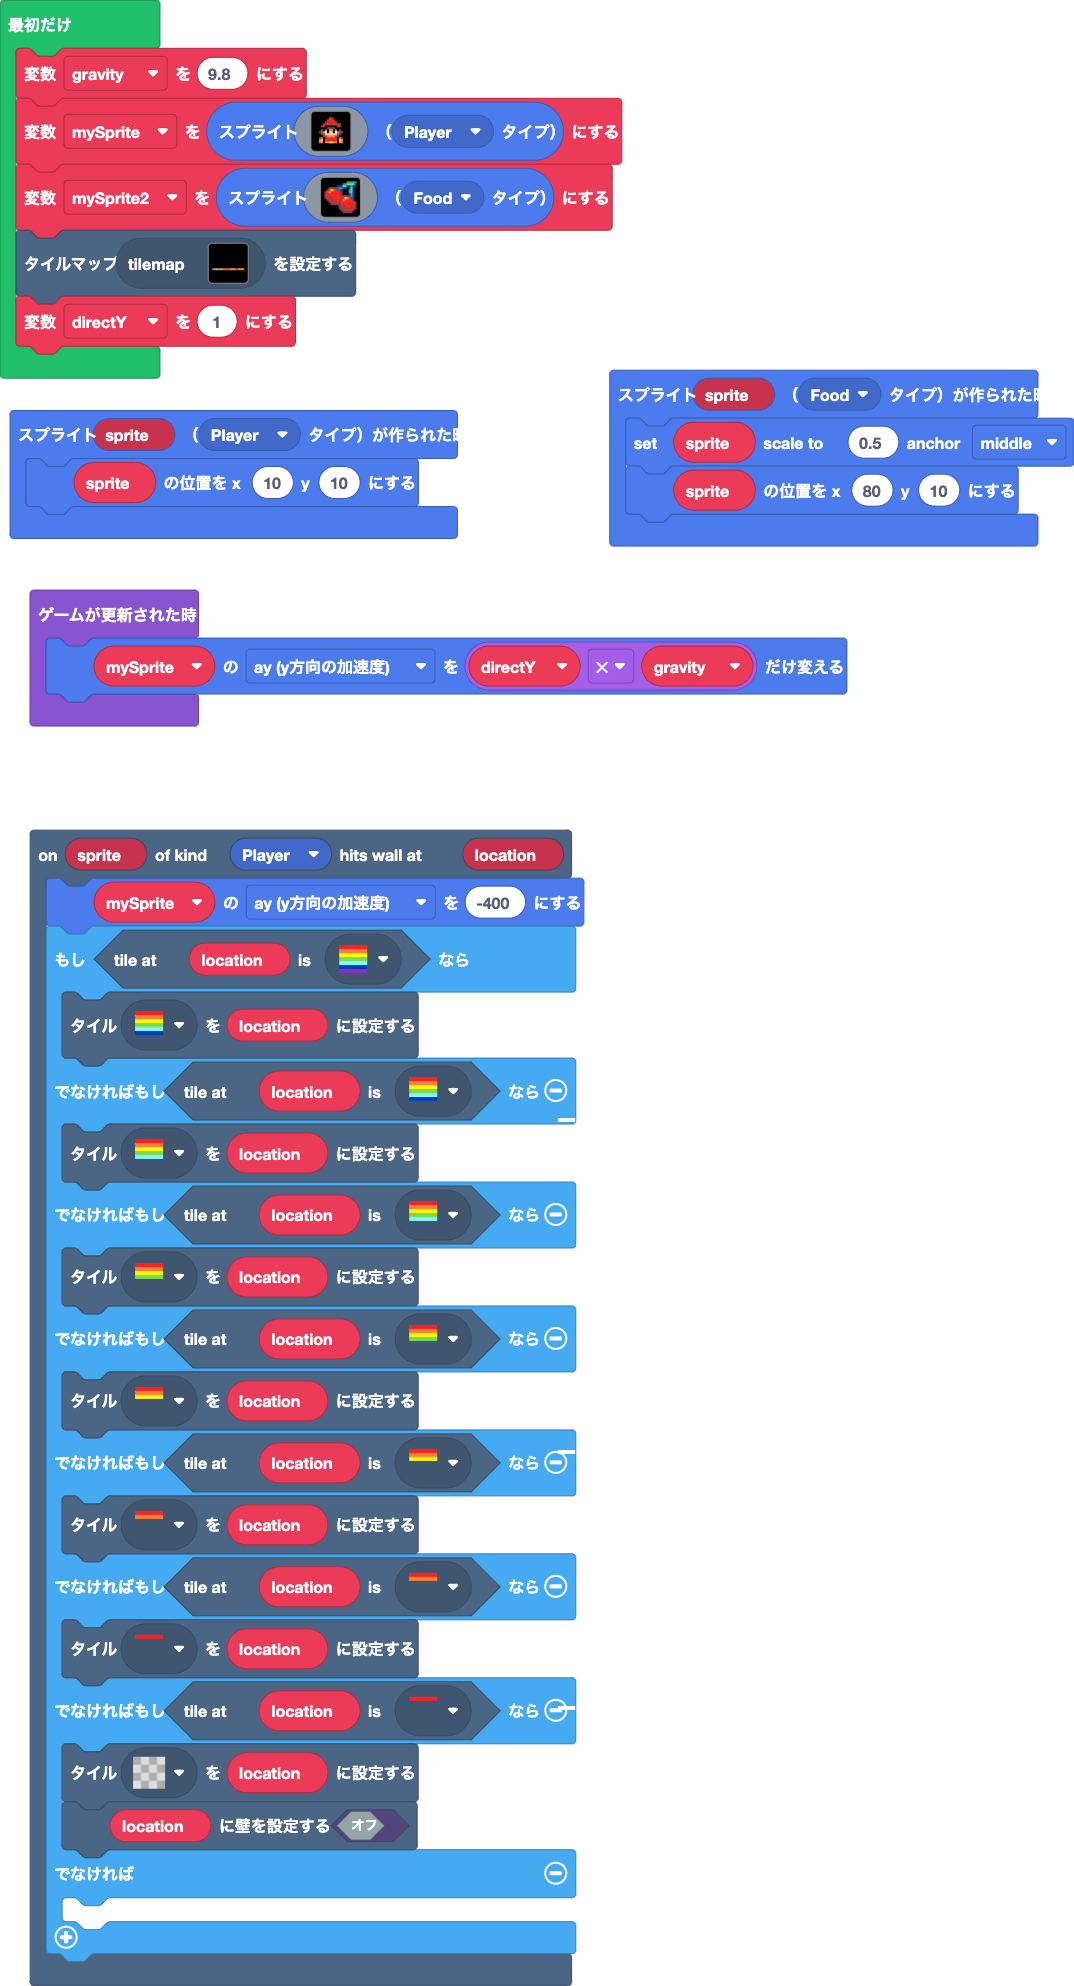
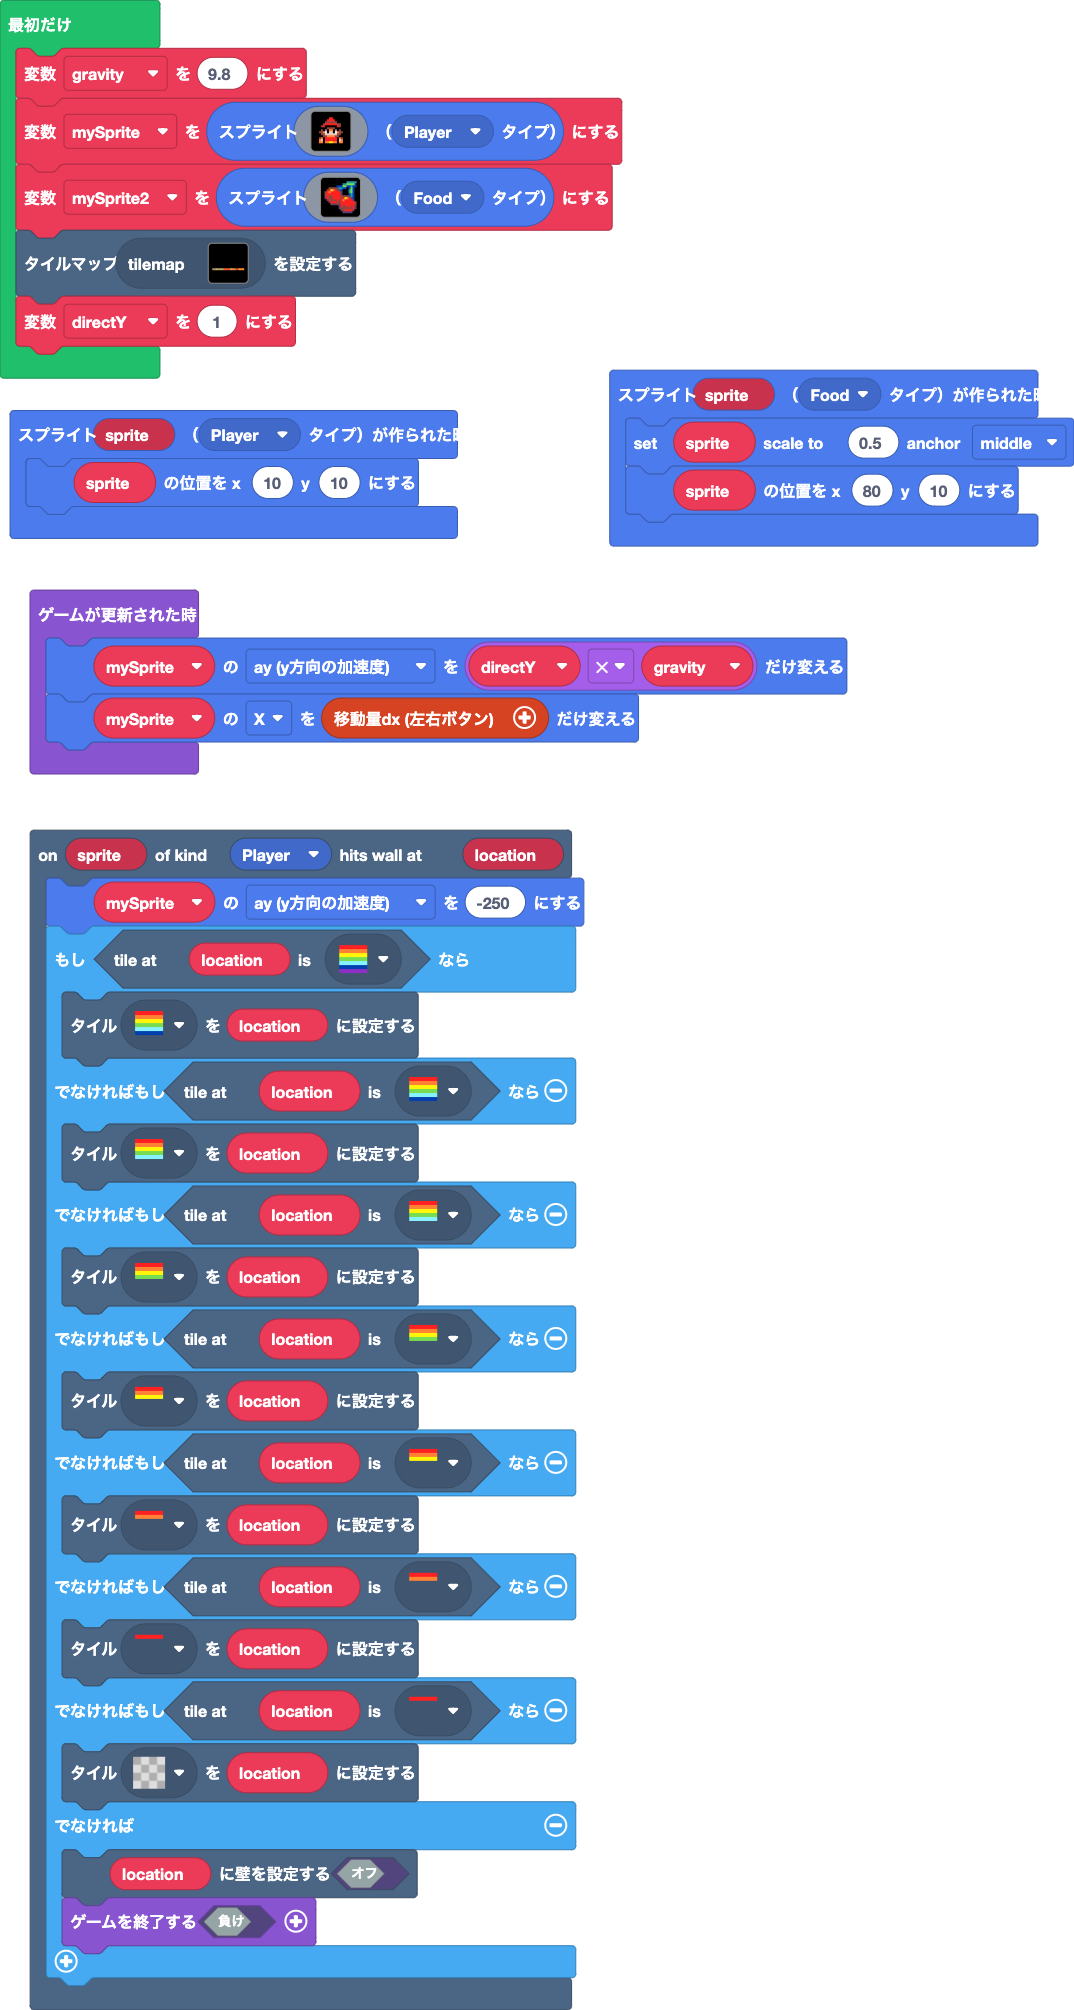
更新 main.blocks, main.ts, tilemap.g.jres, tilemap.g.ts

Changed region(s): [[0.0, 0.0312, 0.7989, 0.999], [0.5838, 0.1561, 1.0, 0.281]]

diff --git a/tilemap.g.ts b/tilemap.g.ts
@@ -83,6 +83,25 @@ namespace myTiles {
 . . . . . . . . . . . . . . . . 
 . . . . . . . . . . . . . . . . 
 `, [myTiles.transparency16], TileScale.Sixteen);
+            case "レベル4":
+            case "レベル4":return tiles.createTilemap(hex`1000100000000000000000000000000000000000000000000000000000000000000000000000000000000000000000000000000000000000000000000000000000000000000000000000000000000000000000000000000000000000000000000000000000000000000000000000000000000000000000000000000000000000000000000000000000000000000000000000000000000000000000000000000000000000000000000000000000000000000000000000000000000000000000000000000000000000000000000000000000000000000000000000000000000000000000000000000000000000000000000000000000000000000000000000000000000000`, img`
+. . . . . . . . . . . . . . . . 
+. . . . . . . . . . . . . . . . 
+. . . . . . . . . . . . . . . . 
+. . . . . . . . . . . . . . . . 
+. . . . . . . . . . . . . . . . 
+. . . . . . . . . . . . . . . . 
+. . . . . . . . . . . . . . . . 
+. . . . . . . . . . . . . . . . 
+. . . . . . . . . . . . . . . . 
+. . . . . . . . . . . . . . . . 
+. . . . . . . . . . . . . . . . 
+. . . . . . . . . . . . . . . . 
+. . . . . . . . . . . . . . . . 
+. . . . . . . . . . . . . . . . 
+. . . . . . . . . . . . . . . . 
+. . . . . . . . . . . . . . . . 
+`, [myTiles.transparency16], TileScale.Sixteen);
         }
         return null;
     })

diff --git a/main.ts b/main.ts
@@ -1,5 +1,5 @@
 scene.onHitWall(SpriteKind.Player, function (sprite, location) {
-    mySprite.ay = -400
+    mySprite.ay = -250
     if (tiles.tileAtLocationEquals(location, assets.tile`rainbow`)) {
         tiles.setTileAt(location, assets.tile`rainbow0`)
     } else if (tiles.tileAtLocationEquals(location, assets.tile`rainbow0`)) {
@@ -14,9 +14,9 @@ scene.onHitWall(SpriteKind.Player, function (sprite, location) {
         tiles.setTileAt(location, assets.tile`rainbow11`)
     } else if (tiles.tileAtLocationEquals(location, assets.tile`rainbow11`)) {
         tiles.setTileAt(location, assets.tile`transparency16`)
-        tiles.setWallAt(location, false)
     } else {
-    	
+        tiles.setWallAt(location, false)
+        game.over(false)
     }
 })
 sprites.onCreated(SpriteKind.Food, function (sprite) {
@@ -68,4 +68,5 @@ tiles.setCurrentTilemap(tilemap`レベル1`)
 let directY = 1
 game.onUpdate(function () {
     mySprite.ay += directY * gravity
+    mySprite.x += controller.dx()
 })
